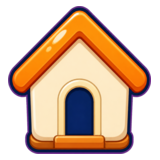
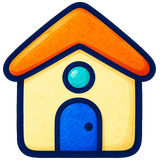
Переработал иконки

diff --git a/tools/verify_2x_layout.py b/tools/verify_2x_layout.py
@@ -385,6 +385,94 @@ def verify_application_fonts() -> None:
     )
 
 
+def verify_generated_cartoon_game_icons() -> None:
+    expected_icons = {
+        "flash_assets/nav_profile_icon.png": (160, 160),
+        "flash_assets/nav_shop_icon.png": (160, 160),
+        "flash_assets/nav_home_icon.png": (160, 160),
+        "flash_assets/nav_tasks_icon.png": (160, 160),
+        "flash_assets/nav_settings_icon.png": (160, 160),
+        "flash_assets/theme_icons/theme_icon_sport.png": (256, 256),
+        "flash_assets/theme_icons/theme_icon_geography.png": (256, 256),
+        "flash_assets/theme_icons/theme_icon_nature.png": (256, 256),
+        "flash_assets/theme_icons/theme_icon_technics.png": (256, 256),
+        "flash_assets/theme_icons/theme_icon_people.png": (256, 256),
+        "flash_assets/theme_icons/theme_icon_food.png": (256, 256),
+        "flash_assets/theme_icons/theme_icon_science.png": (256, 256),
+        "flash_assets/theme_icons/theme_icon_history.png": (256, 256),
+        "flash_assets/theme_icons/theme_icon_general.png": (256, 256),
+        "flash_assets/theme_icons/theme_icon_film_music.png": (256, 256),
+        "flash_assets/hint_reveal_letter_doodle.png": (256, 256),
+        "flash_assets/hint_remove_wrong_doodle.png": (256, 256),
+        "flash_assets/hint_comment_unlock_doodle.png": (256, 256),
+        "flash_assets/soft_currency_coin.png": (128, 128),
+        "flash_assets/life_heart_icon.png": (84, 76),
+    }
+    for relative_path, expected_size in expected_icons.items():
+        path = ROOT / relative_path
+        require(path.is_file(), f"Generated game icon is missing: {relative_path}")
+        with Image.open(path) as image:
+            rgba = image.convert("RGBA")
+            require(rgba.size == expected_size, f"Generated game icon size changed: {relative_path}")
+            corners = (
+                rgba.getpixel((0, 0))[3],
+                rgba.getpixel((rgba.width - 1, 0))[3],
+                rgba.getpixel((0, rgba.height - 1))[3],
+                rgba.getpixel((rgba.width - 1, rgba.height - 1))[3],
+            )
+            require(corners == (0, 0, 0, 0), f"Generated game icon has opaque corners: {relative_path}")
+            visible_pixels = sum(alpha > 32 for alpha in rgba.getchannel("A").getdata())
+            minimum_visible = int(rgba.width * rgba.height * 0.18)
+            require(
+                visible_pixels >= minimum_visible,
+                f"Generated game icon has insufficient visible artwork: {relative_path}",
+            )
+            alpha_mask = rgba.getchannel("A").point(lambda alpha: 255 if alpha > 32 else 0)
+            artwork_bounds = alpha_mask.getbbox()
+            require(artwork_bounds is not None, f"Generated game icon is empty: {relative_path}")
+            artwork_width = artwork_bounds[2] - artwork_bounds[0]
+            artwork_height = artwork_bounds[3] - artwork_bounds[1]
+            artwork_fill = max(artwork_width / rgba.width, artwork_height / rgba.height)
+            require(
+                artwork_fill >= 0.94,
+                f"Generated game icon does not fill its canvas: {relative_path}",
+            )
+            artwork_center_x = (artwork_bounds[0] + artwork_bounds[2]) * 0.5
+            artwork_center_y = (artwork_bounds[1] + artwork_bounds[3]) * 0.5
+            require(
+                abs(artwork_center_x - rgba.width * 0.5) <= 1.5
+                and abs(artwork_center_y - rgba.height * 0.5) <= 1.5,
+                f"Generated game icon artwork is off-center: {relative_path}",
+            )
+            magenta_pixels = sum(
+                alpha > 32 and red > 180 and blue > 150 and green < 90
+                for red, green, blue, alpha in rgba.getdata()
+            )
+            require(
+                magenta_pixels == 0,
+                f"Generated game icon retains chroma-key color: {relative_path}",
+            )
+
+            if relative_path == "flash_assets/life_heart_icon.png":
+                opaque_pixels = [pixel for pixel in rgba.getdata() if pixel[3] > 200]
+                warm_red_pixels = sum(
+                    red > 170 and red > green * 1.25 and red > blue * 1.18
+                    for red, green, blue, _alpha in opaque_pixels
+                )
+                blue_pixels = sum(
+                    blue > 75 and blue > red * 1.18 and blue > green * 1.05
+                    for red, green, blue, _alpha in opaque_pixels
+                )
+                require(
+                    warm_red_pixels >= len(opaque_pixels) * 0.5,
+                    "Life heart is no longer predominantly warm red",
+                )
+                require(
+                    blue_pixels <= warm_red_pixels * 0.12,
+                    "Life heart contains an excessive blue interior region",
+                )
+
+
 def verify_heading_and_word_typography() -> None:
     main = read("scripts/main.gd")
     portrait = read("scripts/main_portrait.gd")
@@ -492,6 +580,23 @@ def verify_ui_motion_and_readability_polish() -> None:
         "Currency or remaining-attempt counters do not use Balsamiq Sans Regular",
     )
     require(
+        "const PORTRAIT_GAME_HINT_ART_SIZE := Vector2(60.0, 60.0)" in portrait,
+        "Gameplay hint artwork was not reduced without changing its source textures",
+    )
+    require(
+        'counter_visual.name = "CurrencyCounterVisual"' in currency_counter
+        and 'counter_button.button_down.connect(' in currency_counter
+        and 'counter_button.button_up.connect(' in currency_counter
+        and 'counter_button.mouse_exited.connect(' in currency_counter
+        and 'func _set_currency_counter_pressed(' in currency_counter
+        and 'counter_visual.pivot_offset = mapped_position + counter_rect.size * fit_scale * 0.5'
+        in currency_counter
+        and 'Vector2.ONE * PORTRAIT_CURRENCY_COUNTER_PRESSED_SCALE' in currency_counter
+        and 'PORTRAIT_CURRENCY_COUNTER_PRESS_DURATION' in currency_counter
+        and 'PORTRAIT_CURRENCY_COUNTER_RELEASE_DURATION' in currency_counter,
+        "The currency counter does not use the shared button-like scale response",
+    )
+    require(
         'const WORD_FONT: Font = preload("res://fonts/BalsamiqSans-Regular.ttf")' in word_input
         and 'label.add_theme_font_override("font", WORD_FONT)' in word_input
         and "func play_word_bounce() -> void:" in word_input
@@ -508,8 +613,11 @@ def verify_ui_motion_and_readability_polish() -> None:
         and "_portrait_back_button_visible = true" in page_header
         and "_animate_portrait_back_button_entrance(back_button, PORTRAIT_PAGE_BACK_BUTTON_RECT)"
         in game_refresh
+        and "if !game_screen_visible:" in game_refresh
+        and "game_screen_visible = false" in main
+        and "_clear()\n\tgame_screen_visible = true\n\t_refresh_game_screen()" in hero_flow
         and "animate_game_back_button_entrance" not in main + portrait,
-        "Back buttons do not preserve entrance continuity between screen redraws",
+        "Back buttons do not preserve entrance continuity or a hidden round refresh consumes the animation",
     )
     require(
         "Rect2(56.0, 270.0, 368.0, 220.0), hint, 25" in hint_popup
@@ -996,7 +1104,7 @@ def verify_main_tab_navigation() -> None:
             require(corners == (0, 0, 0, 0), f"Main-tab icon is not transparent: {icon_path.name}")
             alpha_bytes = rgba.tobytes()[3::4]
             require(
-                sum(alpha > 200 for alpha in alpha_bytes) > 10000,
+                sum(alpha > 200 for alpha in alpha_bytes) > 8000,
                 f"Main-tab icon has insufficient visible artwork: {icon_path.name}",
             )
         require(
@@ -1094,6 +1202,9 @@ def verify_main_tab_navigation() -> None:
         and "func _finish_main_nav_icon_bounce(icon: Control, rest_position: Vector2) -> void:" in navigation
         and "icon.pivot_offset = Vector2.ZERO" in navigation
         and "settle_tweener.set_trans(Tween.TRANS_BOUNCE)" in navigation
+        and "func _finish_main_nav_tab_leave(" in navigation
+        and 'icon.set("stage_rect", final_icon_rect)' in navigation
+        and 'Callable(self, "_finish_main_nav_tab_leave").bind(' in navigation
         and 'Callable(self, "_show_profile_screen"), MainTab.PROFILE' in portrait
         and 'Callable(self, "_show_coin_store_screen").bind(true), MainTab.SHOP' in portrait
         and 'Callable(self, "_show_menu_screen"), MainTab.HOME' in portrait
@@ -1577,6 +1688,29 @@ def verify_single_player_popup_stays_interactive() -> None:
         and "GameState.reset_single_level_attempt(Database.current_language, level_index, false)"
         in confirmation,
         "Refreshing or replacing a saved single-player category does not rebuild the level attempt",
+    )
+
+
+def verify_single_player_challenge_difficulty_step() -> None:
+    main = read("scripts/main.gd")
+    level_data = main[
+        main.index("func _single_player_level_data(") :
+        main.index("func _single_player_level_theme_options(")
+    ]
+    require(
+        "var adaptive_difficulty: float = GameState.get_single_player_adaptive_difficulty(language)"
+        in level_data
+        and "single_player_level_cache_difficulty = adaptive_difficulty" in level_data
+        and "var target_difficulty: float = adaptive_difficulty" in level_data,
+        "Single-player level generation no longer separates adaptive and effective difficulty",
+    )
+    require(
+        "if _single_player_is_bonus_level(level_index):" in level_data
+        and "adaptive_difficulty + GameState.SINGLE_PLAYER_SUCCESS_DIFFICULTY_STEP"
+        in level_data
+        and "GameState.SINGLE_PLAYER_DIFFICULTY_MIN" in level_data
+        and "GameState.SINGLE_PLAYER_DIFFICULTY_MAX" in level_data,
+        "Challenge levels are not generated exactly one victory step above normal levels",
     )
 
 
@@ -2139,6 +2273,7 @@ def main() -> None:
     verify_optimized_architecture()
     verify_refined_ui_icons()
     verify_round_icon_display_sizes()
+    verify_generated_cartoon_game_icons()
     verify_application_fonts()
     verify_heading_and_word_typography()
     verify_ui_motion_and_readability_polish()
@@ -2158,6 +2293,7 @@ def main() -> None:
     verify_game_exit_confirmation_popup()
     verify_long_button_attention_bounce()
     verify_single_player_popup_stays_interactive()
+    verify_single_player_challenge_difficulty_step()
     verify_native_custom_word_input()
     verify_settings_popup_and_language_split()
     verify_game_audio_feedback()
